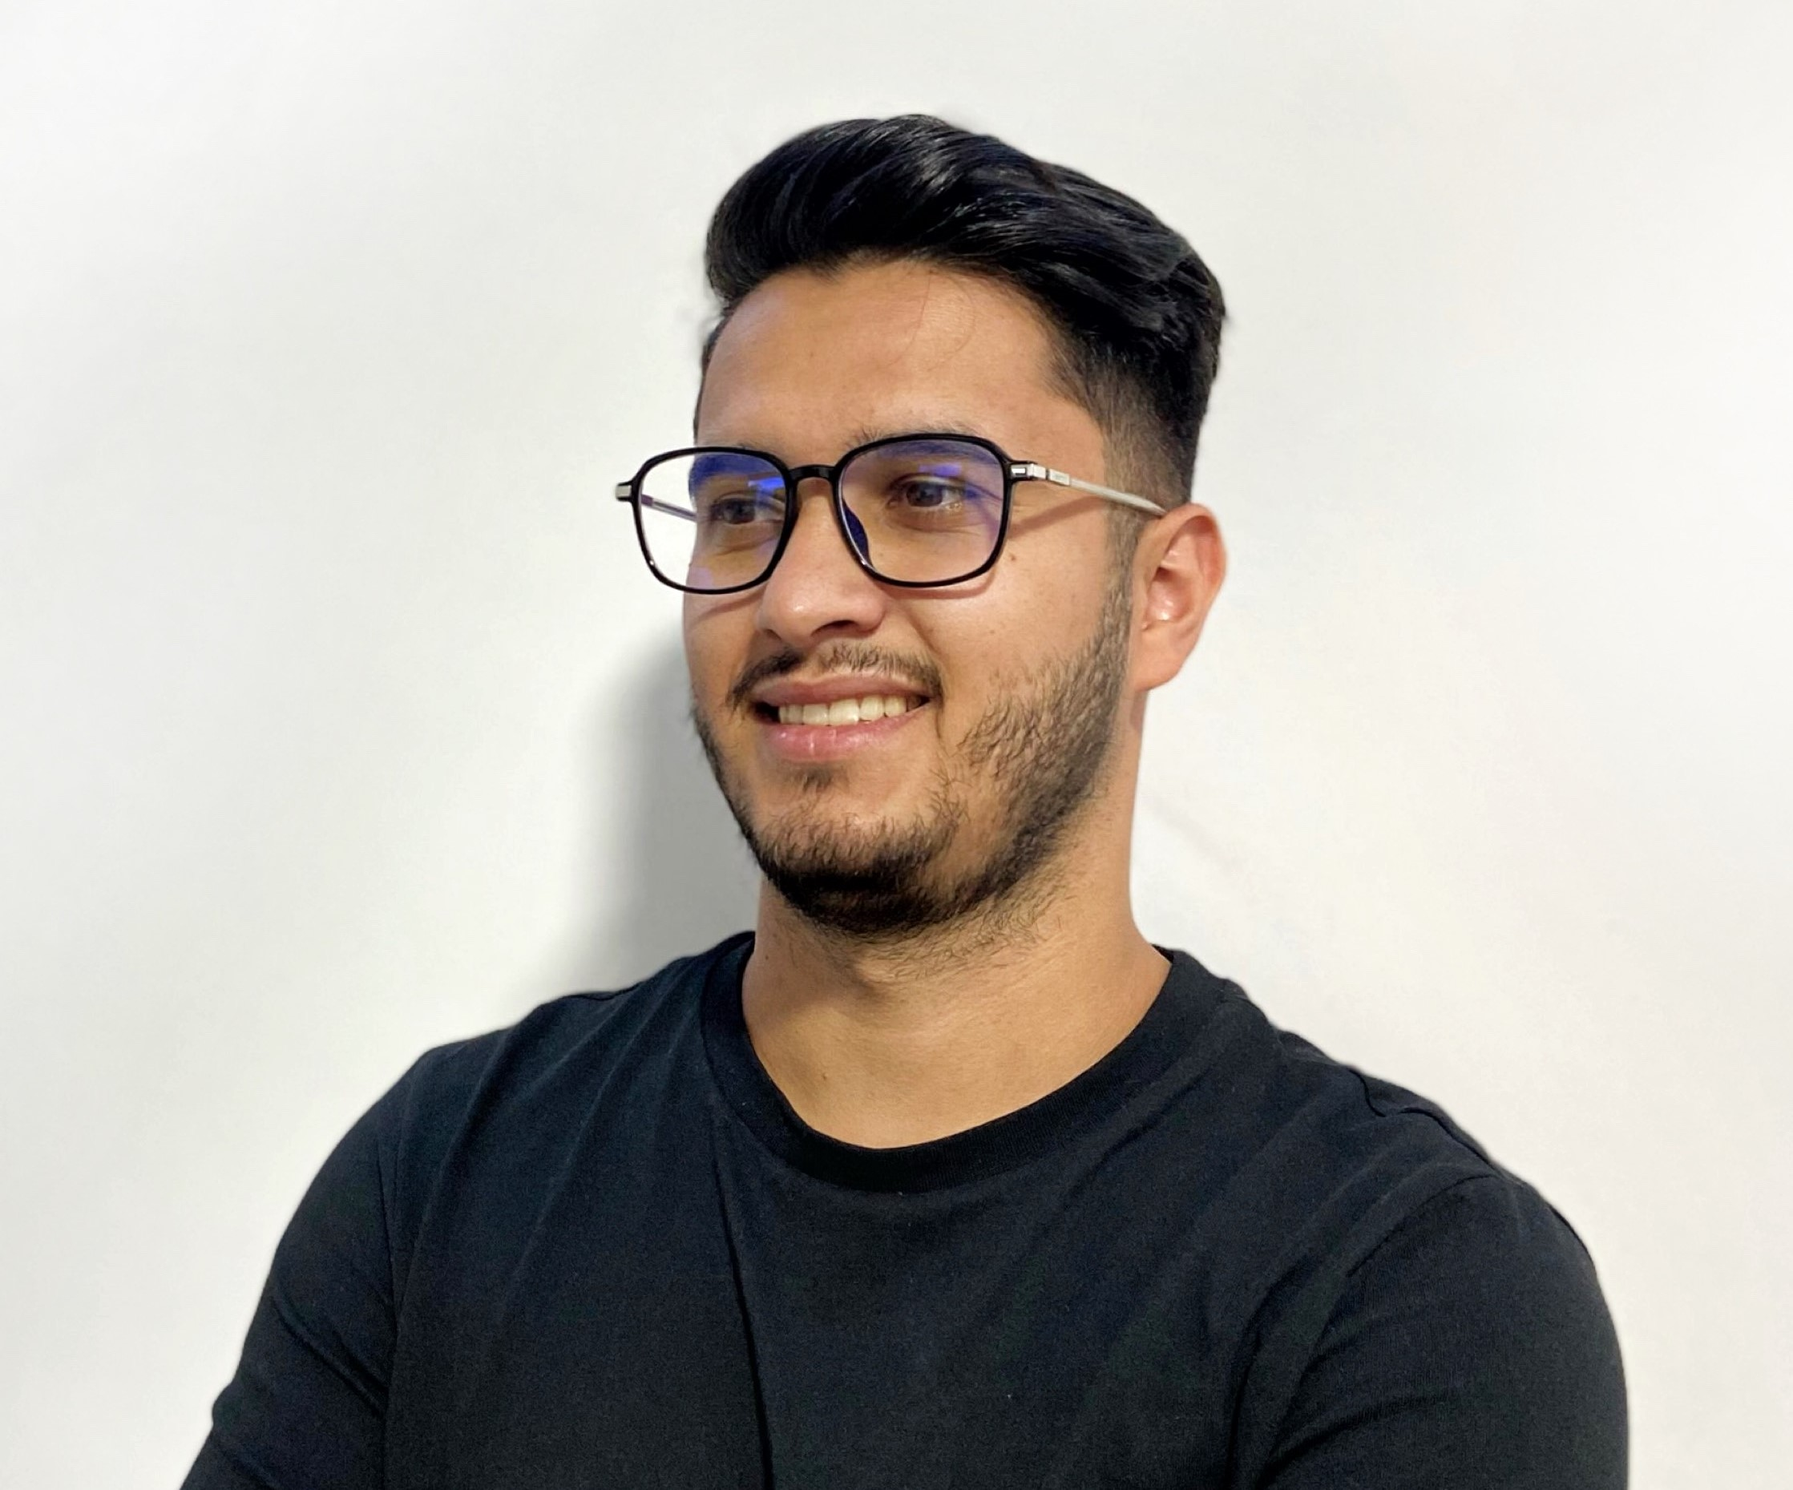
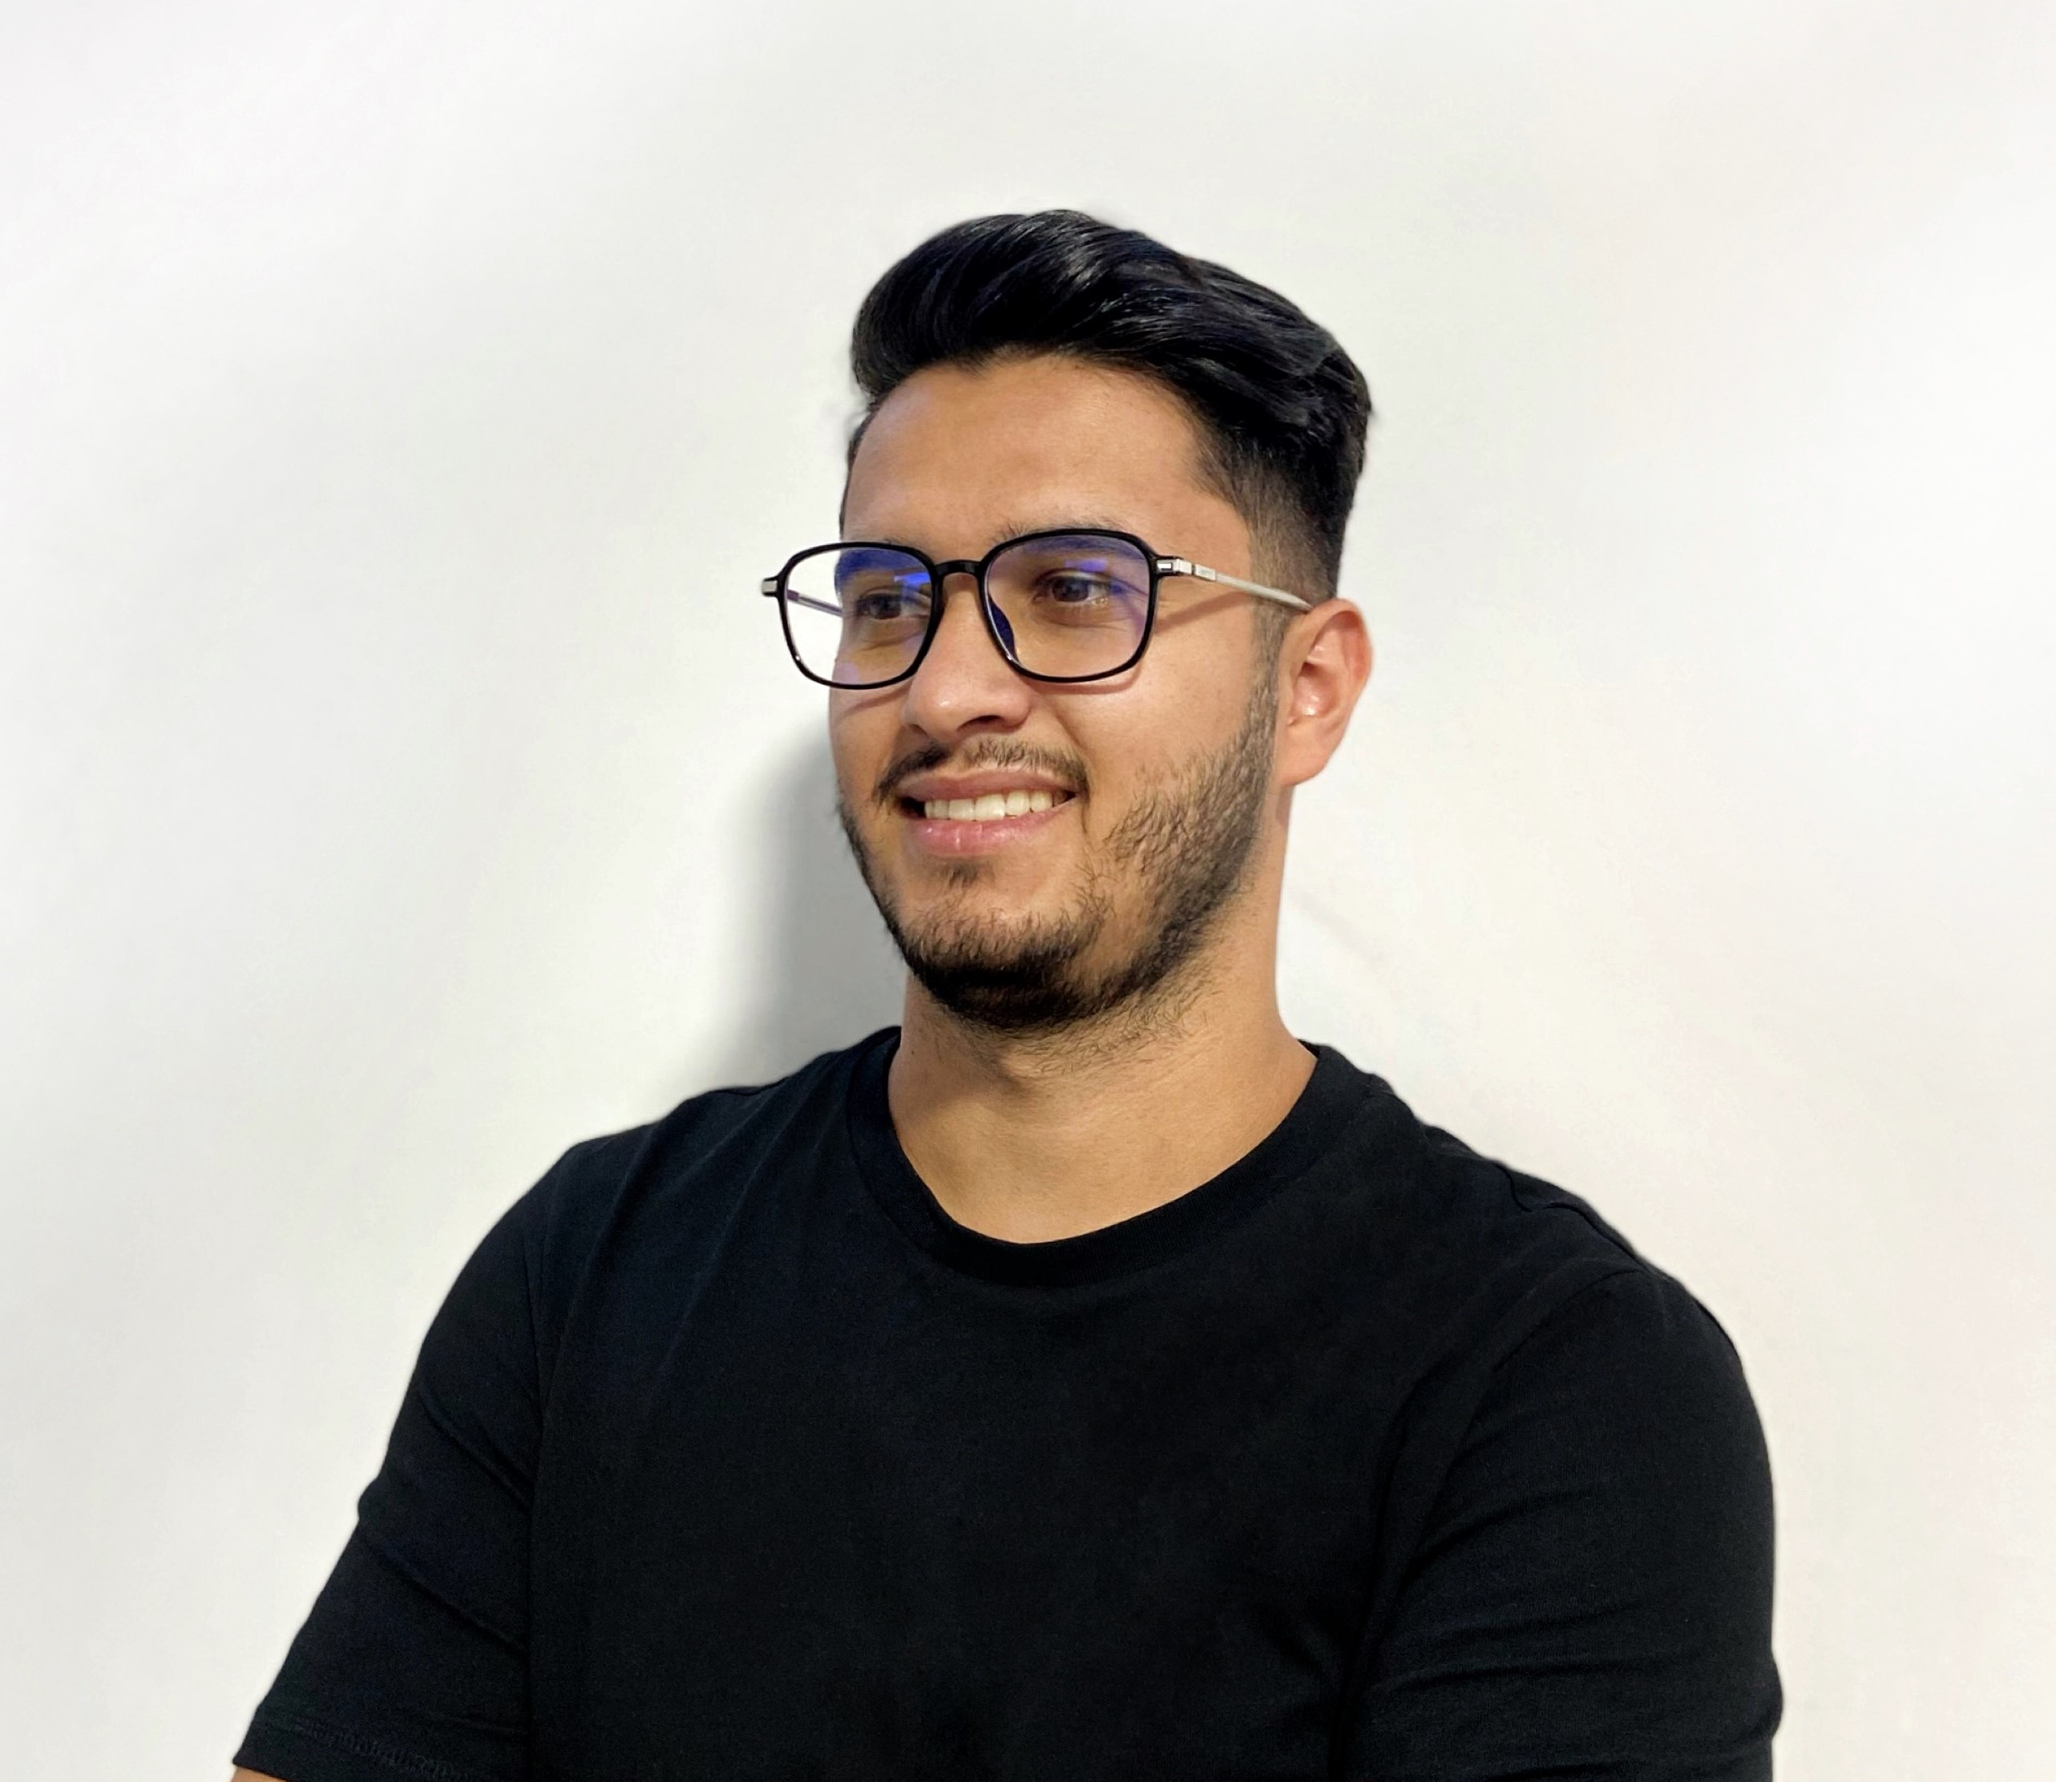
change photo profile

Changed region(s): [[0.0925, 0.0624, 0.9253, 1.0]]

diff --git a/src/components/home.css b/src/components/home.css
@@ -9,7 +9,7 @@
     justify-self: center;
     animation: profile_animate 8s ease-in-out infinite 1s;
     border: 3px solid black;
-    filter: brightness(0.9);
+    /* filter: brightness(0.9); */
 }
 
 @keyframes profile_animate {
